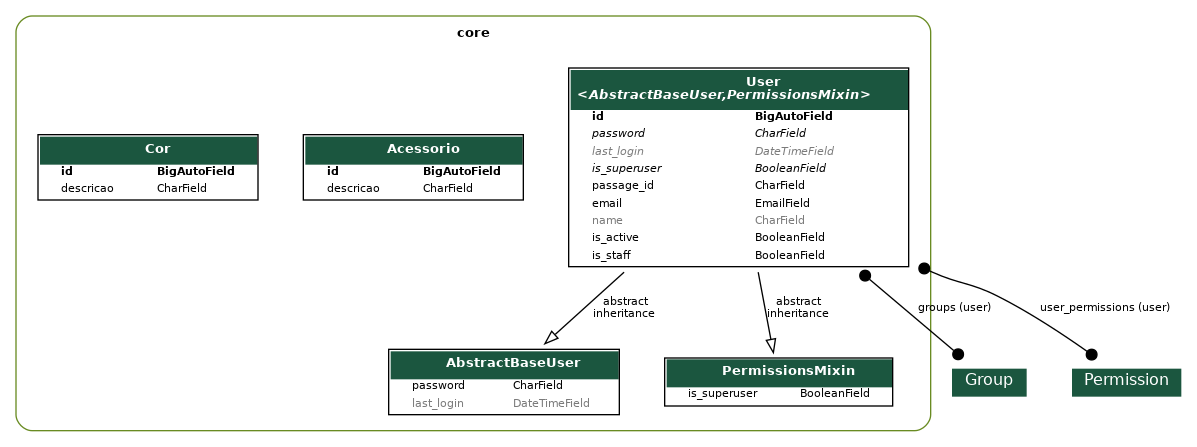
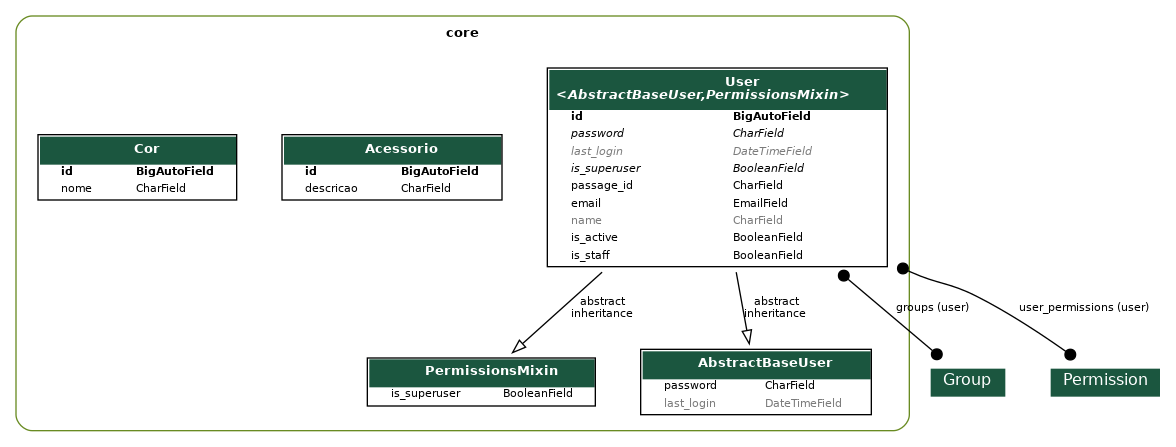
feat: criação da API para Cor

diff --git a/core/migrations/0007_alter_cor_options_rename_descricao_cor_nome.py b/core/migrations/0007_alter_cor_options_rename_descricao_cor_nome.py
@@ -1,0 +1,22 @@
+# Generated by Django 5.1.7 on 2025-05-05 18:58
+
+from django.db import migrations
+
+
+class Migration(migrations.Migration):
+
+    dependencies = [
+        ('core', '0006_cor'),
+    ]
+
+    operations = [
+        migrations.AlterModelOptions(
+            name='cor',
+            options={'verbose_name': 'cor', 'verbose_name_plural': 'cores'},
+        ),
+        migrations.RenameField(
+            model_name='cor',
+            old_name='descricao',
+            new_name='nome',
+        ),
+    ]

diff --git a/core/models/cor.py b/core/models/cor.py
@@ -1,12 +1,11 @@
-from tabnanny import verbose
 from django.db import models
 
 class Cor(models.Model):
-    descricao = models.CharField(max_length=40)
+    nome = models.CharField(max_length=40)
 
-    class Meta: 
-        verbose_name ='cor'
-        verbose_name_plural = 'cores'
-    
+    class Meta:
+        verbose_name = 'cor'
+        verbose_name_plural = 'cores' 
+
     def __str__(self):
-        return self.descricao
+        return f"({self.id}) {self.nome}"

diff --git a/core/views/acessorio.py b/core/views/acessorio.py
@@ -3,7 +3,6 @@ from rest_framework.viewsets import ModelViewSet
 from core.models import Acessorio
 from core.serializers import AcessorioSerializer
 
-...
 class AcessorioViewSet(ModelViewSet):
     queryset = Acessorio.objects.all()
     serializer_class = AcessorioSerializer

diff --git a/core/views/cor.py b/core/views/cor.py
@@ -1,0 +1,8 @@
+from rest_framework.viewsets import ModelViewSet
+
+from core.models import Cor
+from core.serializers import CorSerializer
+
+class CorViewSet(ModelViewSet):
+    queryset = Cor.objects.all()
+    serializer_class = CorSerializer

diff --git a/core/serializers/cor.py b/core/serializers/cor.py
@@ -1,0 +1,8 @@
+from rest_framework.serializers import ModelSerializer
+
+from core.models import Cor
+
+class CorSerializer(ModelSerializer):
+    class Meta:
+        model = Cor
+        fields = "__all__"

diff --git a/app/urls.py b/app/urls.py
@@ -9,6 +9,7 @@ from rest_framework.routers import DefaultRouter
 
 from core.views import UserViewSet
 from core.views import AcessorioViewSet
+from core.views import CorViewSet
 
 router = DefaultRouter()
 

diff --git a/core/serializers/__init__.py b/core/serializers/__init__.py
@@ -1,2 +1,3 @@
 from .user import UserSerializer
 from .acessorio import AcessorioSerializer
+from .cor import CorSerializer

diff --git a/core/models/__init__.py b/core/models/__init__.py
@@ -1,3 +1,3 @@
 from .user import User
 from .acessorio import Acessorio
-from . cor import Cor
+from .cor import Cor

diff --git a/core/views/__init__.py b/core/views/__init__.py
@@ -1,2 +1,3 @@
 from .user import UserViewSet
 from .acessorio import AcessorioViewSet
+from .cor import CorViewSet
